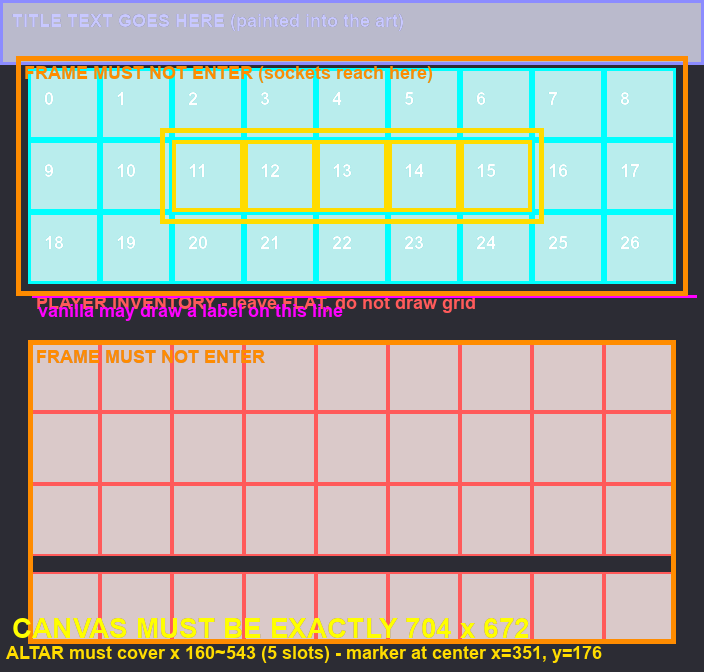
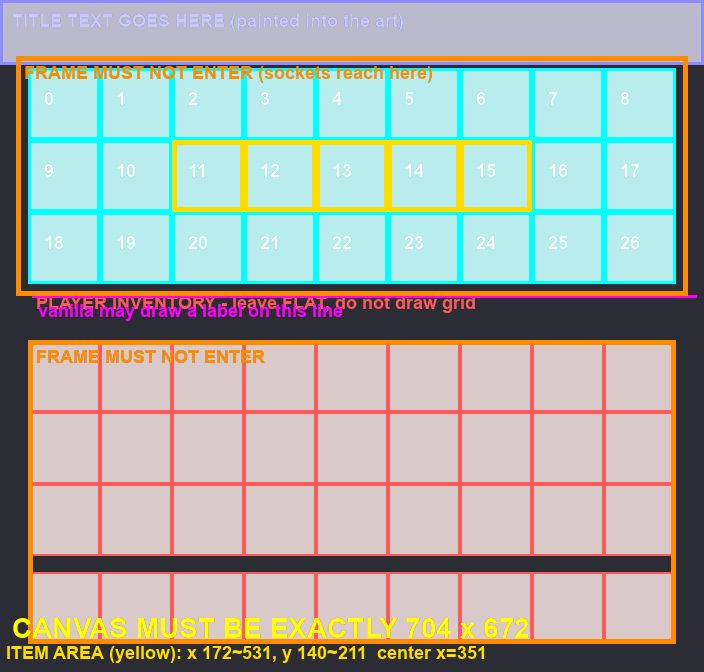
물고기 판매창 발주 준비 — 가이드 슬롯 지정 인자화 + 발주서
make_guide.py 에 --hero/--btn 추가(슬롯 범위 지정). 낚시창 전용으로 하드코딩돼
있던 11~15 를 인자로 뺐고, 노란 상자를 여러 행에 걸치게 수정(판매창은 18칸 2행).

판매창은 낚시창과 성격이 다르다 — 유저가 물고기를 올려놓는 좌판이라
위 두 행이 하나의 연속된 움푹한 면으로 읽혀야 한다. 칸 구분선 18개는 우리가
정확한 격자에 얹으므로 그림에는 그리지 않는다.
★제목 글자도 그리지 않는다 — 넣은 마리 수·금액이 바뀌므로 게임 폰트로 실시간 출력.

Changed region(s): [[0.0, 0.9375, 0.875, 1.0], [0.2188, 0.1875, 0.7812, 0.3438]]

diff --git a/gui-forge/make_guide.py b/gui-forge/make_guide.py
@@ -8,8 +8,11 @@
 
 산출: src/<gui>/_guide.png — 캔버스 크기가 곧 정답이고, 그 위에 칸이 표시돼 있다.
 
-사용: python3 make_guide.py <gui이름> <컨테이너행수>
-      예) python3 make_guide.py fishcatch 3
+사용: python3 make_guide.py <gui이름> <컨테이너행수> [--hero 11-15] [--btn 4,8]
+      예) python3 make_guide.py fishing_success 3 --hero 11-15
+          python3 make_guide.py fish_shop 3 --hero 9-26 --btn 4,8
+  --hero : 아이템이 실제로 놓이는 칸(노란 상자로 강조)
+  --btn  : 버튼 칸(주황 채움) — 배경에 버튼 자리를 파둘 위치
 """
 import os
 import sys
@@ -58,11 +61,33 @@ def font(px):
     return ImageFont.load_default()
 
 
+def parse_slots(spec):
+    """'9-26' / '4,8' / '2-6,11-15' → 슬롯 집합."""
+    out = set()
+    for part in (spec or "").split(","):
+        part = part.strip()
+        if not part:
+            continue
+        if "-" in part:
+            a, b = part.split("-", 1)
+            out.update(range(int(a), int(b) + 1))
+        else:
+            out.add(int(part))
+    return out
+
+
 def main():
     if len(sys.argv) < 3:
         print(__doc__)
         sys.exit(1)
     name, rows = sys.argv[1], int(sys.argv[2])
+    argv = sys.argv[3:]
+    hero_spec = btn_spec = ""
+    for i, a in enumerate(argv):
+        if a == "--hero" and i + 1 < len(argv): hero_spec = argv[i + 1]
+        if a == "--btn" and i + 1 < len(argv): btn_spec = argv[i + 1]
+    globals()["HERO_SLOTS"] = parse_slots(hero_spec)
+    globals()["BTN_SLOTS"] = parse_slots(btn_spec)
     g = geometry(rows)
     W, H = GW * SCALE, g["gh"] * SCALE
     im = Image.new("RGBA", (W, H), BG)
@@ -77,17 +102,20 @@ def main():
     # 컨테이너 슬롯 — 여기에 아이템이 올라간다. 소켓/홈은 정확히 이 칸에 맞춰야 한다.
     # ★주인공 칸은 **5칸**(2026-08-06). 낚시 결과는 물고기 1마리가 아니라 더블/트리플 +
     #   낚시 재료 + 보물상자까지 한 번에 3~4개가 쏟아지므로 한 칸짜리 제단으론 못 담는다.
-    heroes = set(range(11, 16)) if rows == 3 else set()
+    heroes = globals().get("HERO_SLOTS") or set()
+    btns = globals().get("BTN_SLOTS") or set()
     hero_cells = []
     for r, y in enumerate(g["slot_rows"]):
         for c in range(COLS):
             x = GRID_X + CELL * c
             idx = r * COLS + c
-            is_hero = idx in heroes
-            cell(x, y, SLOT_FILL, HERO_LINE if is_hero else SLOT_LINE, 4 if is_hero else 3)
+            is_hero, is_btn = idx in heroes, idx in btns
+            fill = (255, 150, 0, 90) if is_btn else SLOT_FILL
+            line = (255, 150, 0, 255) if is_btn else (HERO_LINE if is_hero else SLOT_LINE)
+            cell(x, y, fill, line, 4 if (is_hero or is_btn) else 3)
             if is_hero:
                 hero_cells.append((x, y))
-            d.text(((x + 4) * SCALE, (y + 5) * SCALE), str(idx),
+            d.text(((x + 4) * SCALE, (y + 5) * SCALE), ("BTN" if is_btn else str(idx)),
                    font=f_sm, fill=(255, 255, 255, 230))
 
     # 플레이어 인벤 — 격자는 빌더가 덧그린다. 아트에선 민무늬로 둘 것.
@@ -129,14 +157,13 @@ def main():
          "FRAME MUST NOT ENTER")
 
     if hero_cells:
-        hx0 = min(x for x, _ in hero_cells) * SCALE - sock
-        hx1 = (max(x for x, _ in hero_cells) + CELL) * SCALE - 1 + sock
-        hy = hero_cells[0][1]
-        d.rectangle([hx0, hy * SCALE - sock, hx1, (hy + CELL) * SCALE - 1 + sock],
-                    outline=HERO_LINE, width=5)
-        cxm = (hx0 + hx1) // 2
+        hx0 = min(x for x, _ in hero_cells) * SCALE
+        hx1 = (max(x for x, _ in hero_cells) + CELL) * SCALE - 1
+        hy0 = min(y for _, y in hero_cells) * SCALE
+        hy1 = (max(y for _, y in hero_cells) + CELL) * SCALE - 1
+        d.rectangle([hx0, hy0, hx1, hy1], outline=HERO_LINE, width=5)
         d.text((6, H - 30),
-               f"ALTAR must cover x {hx0}~{hx1} (5 slots) - marker at center x={cxm}, y={(hy + 9) * SCALE}",
+               f"ITEM AREA (yellow): x {hx0}~{hx1}, y {hy0}~{hy1}  center x={(hx0 + hx1) // 2}",
                font=f_sm, fill=HERO_LINE)
 
     d.text((12, H - 60), f"CANVAS MUST BE EXACTLY {W} x {H}", font=f_big, fill=(255, 255, 0, 255))

diff --git a/gui-forge/codex-brief-fish-shop.md b/gui-forge/codex-brief-fish-shop.md
@@ -1,0 +1,61 @@
+# 발주 — 물고기 판매창 배경
+
+첨부 3개: `src/fish_shop/_guide.png`(가이드 판) · `tree_bg_source.png`(스타일 레퍼런스) · 이 문서
+
+낚시 성공 창과 **같은 세계관·같은 프레임**이어야 한다. 다만 그쪽은 "보상 공개"고
+여긴 **유저가 물고기를 올려놓고 파는 좌판**이다 — 성격이 다르게 읽혀야 한다.
+
+---
+
+## 낼 것 1개
+
+| 파일 | 크기 | 배경 | 내용 |
+|---|---|---|---|
+| `src/fish_shop/bg_source.png` | **704 × 672** | **불투명** | 프레임 · 헤더 · 좌판 |
+
+소켓/칸 구분선/버튼 아이콘은 **전부 우리가 코드로 얹는다.** 그리지 말 것.
+
+---
+
+## 지켜야 할 것
+
+1. **`_guide.png`를 아래 레이어로 깔고 그린다.** 마지막에 가이드 레이어만 끄고 저장.
+   캔버스는 **1px도 다르면 안 된다.**
+
+2. **투명 픽셀이 하나도 없어야 한다.** 모서리 바깥도 어두운 색으로 — 투명하면
+   바닐라 상자 배경이 그대로 비친다.
+
+3. **주황 상자(FRAME MUST NOT ENTER) 안으로 프레임이 들어오면 안 된다.**
+   마크 슬롯 격자는 위치가 고정이라 협상이 안 된다. 좌우 프레임은 **한쪽 16px 이내**.
+
+4. **빨강 칸(플레이어 인벤) 영역엔 격자를 그리지 말 것.** 민무늬 패널로.
+
+5. ★**제목 글자를 그리지 말 것.** 낚시 창과 달리 제목은 게임 폰트로 실시간 출력한다
+   (넣은 마리 수·금액이 바뀐다). 헤더는 **글자 없는 빈 명판**으로 남겨둘 것.
+
+6. 좌판·버튼 자리는 **저대비**로. 위에 아이템이 올라간다.
+
+---
+
+## 구역 (가이드 참조)
+
+| 구역 | 슬롯 | 그릴 것 |
+|---|---|---|
+| 헤더 띠 | 0~8 | 가로로 긴 **빈 명판**(글자 없음) + 양끝 장식 |
+| └ 버튼 자리 | **4, 8** (주황) | 명판에 **버튼이 박힐 홈 2개**를 파둘 것. 4=전부 판매, 8=닫기 |
+| **좌판** | 9~26 (노랑) | x 28~675, y 140~283 을 덮는 **움푹 팬 판매대**. 젖은 나무·돌 좌판, 물기·비늘 자국 같은 생활감 |
+| 인벤 영역 | — | 민무늬 |
+
+## 좌판이 핵심
+낚시 창은 "받침대 위 전리품"이지만 여긴 **생선을 늘어놓는 좌판**이다.
+- 위 두 행 전체가 하나의 **연속된 움푹한 면**으로 읽혀야 한다(칸마다 홈을 파지 말 것 —
+  18칸 구분선은 우리가 정확한 격자에 맞춰 얹는다).
+- 가장자리에 낮은 턱을 둘러 "여기에 올려놓는 자리"임이 보이게.
+- 헤더 명판과 좌판은 **재질을 달리해** 조작부/작업면이 구분되게.
+
+---
+
+## 스타일
+
+`tree_bg_source.png`와 같은 재질·팔레트. 어두운 목재 + 구리/은 장식, 안쪽은 거의
+검정에 가까운 짙은 남색, 포인트는 청록 발광. **어둡고 채도 낮게** — 물고기가 주인공.
